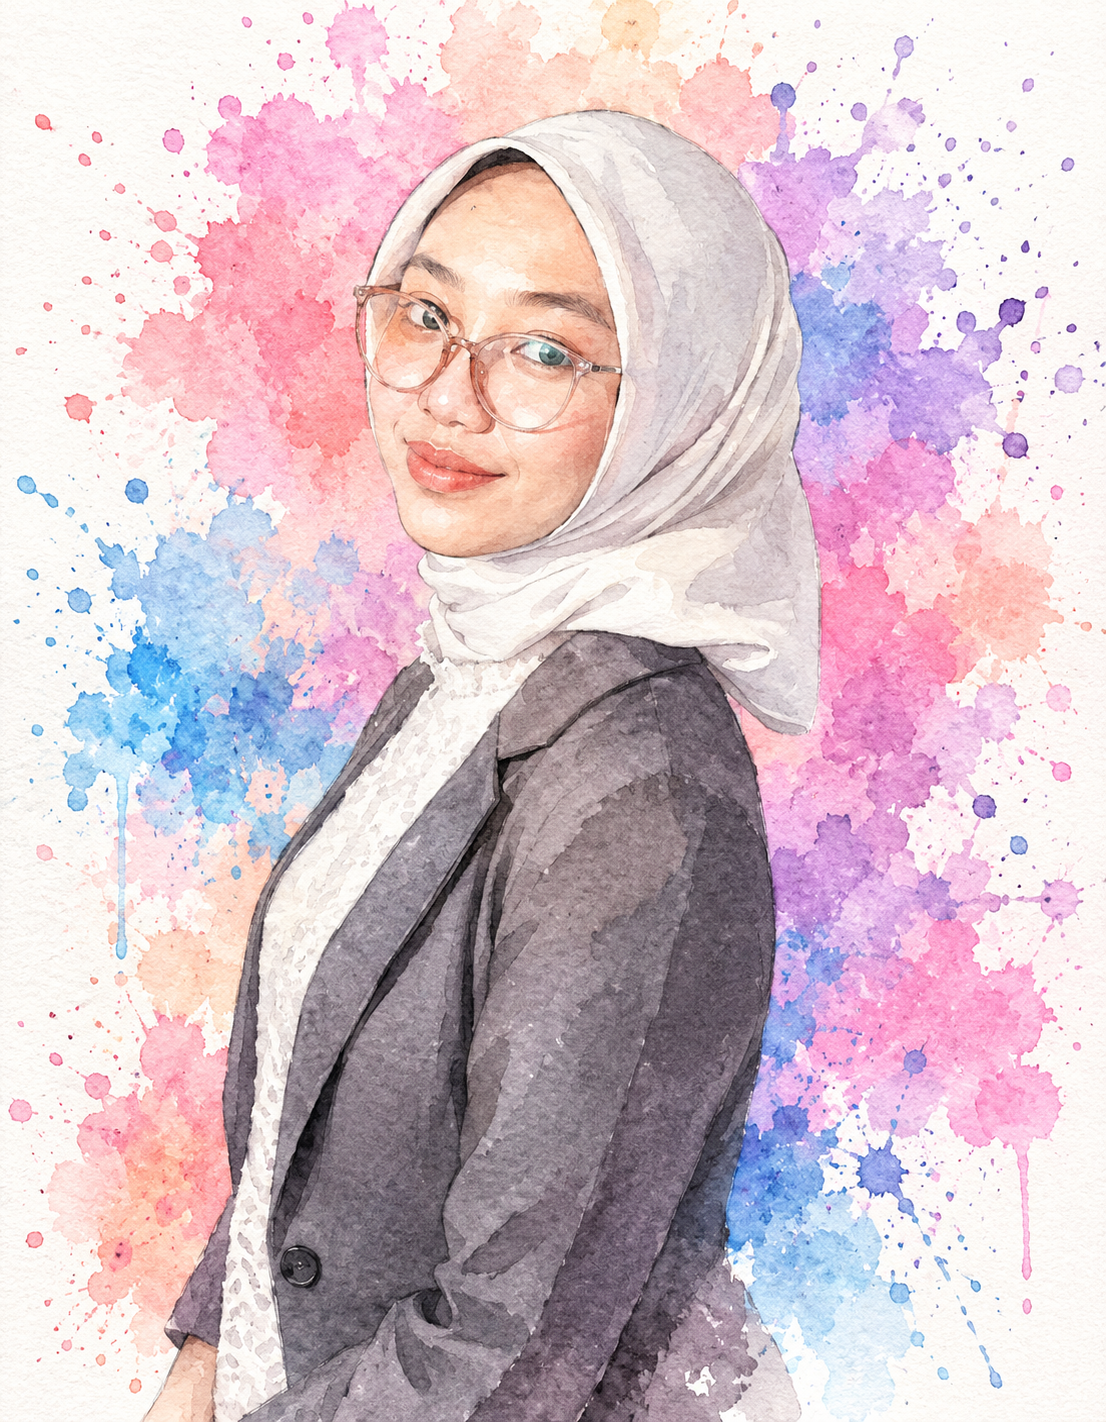
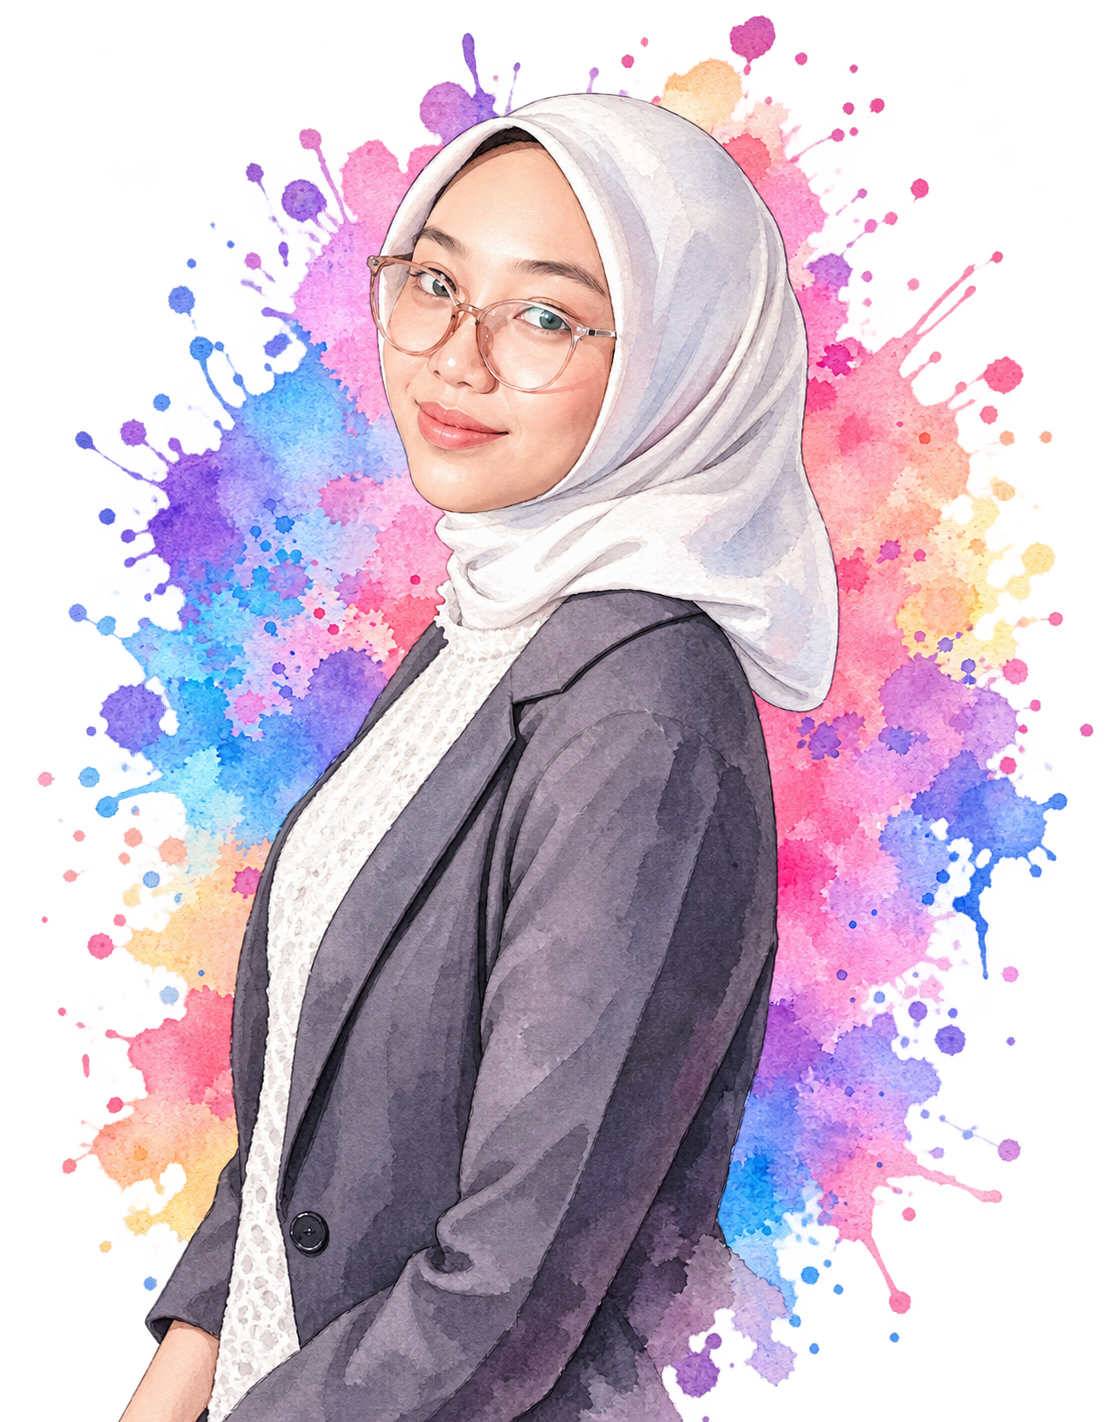
update poto

diff --git a/components/sections/hero.tsx b/components/sections/hero.tsx
@@ -8,18 +8,21 @@ export function HeroSection() {
     <section id="about" className="relative isolate py-12 md:py-20">
       <div className="mx-auto flex flex-col lg:flex-row items-center justify-between max-w-6xl gap-12 px-4">
         
-        {/* POSISI KIRI: FOTO (Tanpa Border Pink & Tanpa Frame Lingkaran) */}
+        {/* POSISI KIRI: FOTO (Mirip web sebelah) */}
         <div className="flex justify-center w-full lg:w-1/2">
-          <div className="w-72 md:w-96 max-w-full">
-            <img
-              src="/images/foto-profil-nila.png"
-              alt="Foto Nila Wati"
-              className="w-full h-auto object-contain drop-shadow-md"
-            />
+          <div className="size-64 md:size-80 overflow-hidden rounded-full bg-gradient-to-br from-primary to-primary/40 p-1.5 shadow-lg">
+            <div className="size-full overflow-hidden rounded-full bg-background">
+              <img
+                src="/images/foto-profil-nila.png"
+                alt="Foto Nila Wati"
+                className="size-full object-cover"
+                style={{ objectPosition: "center 15%" }}
+              />
+            </div>
           </div>
         </div>
 
-        {/* POSISI KANAN: TEKS */}
+        {/* POSISI KANAN: TEKS UTAMA & DESKRIPSI */}
         <div className="flex-1 text-center lg:text-left w-full lg:w-1/2">
           <h1 className="text-pretty text-3xl font-bold leading-tight sm:text-4xl md:text-5xl text-foreground">
             {cvData.name}
@@ -28,20 +31,6 @@ export function HeroSection() {
           <p className="mt-4 text-muted-foreground leading-relaxed text-base md:text-lg">
             {cvData.summary}
           </p>
-          
-          <div className="mt-6 flex flex-wrap justify-center lg:justify-start items-center gap-3">
-            <Button asChild size="lg">
-              <a href="#projects">
-                Lihat Proyek <ArrowDownRight className="ml-2 size-4" />
-              </a>
-            </Button>
-            <Button variant="outline" size="lg" asChild>
-              <a href={cvData.contacts.linkedin} target="_blank" rel="noreferrer">
-                <Linkedin className="mr-2 size-4" />
-                LinkedIn
-              </a>
-            </Button>
-          </div>
         </div>
 
       </div>
